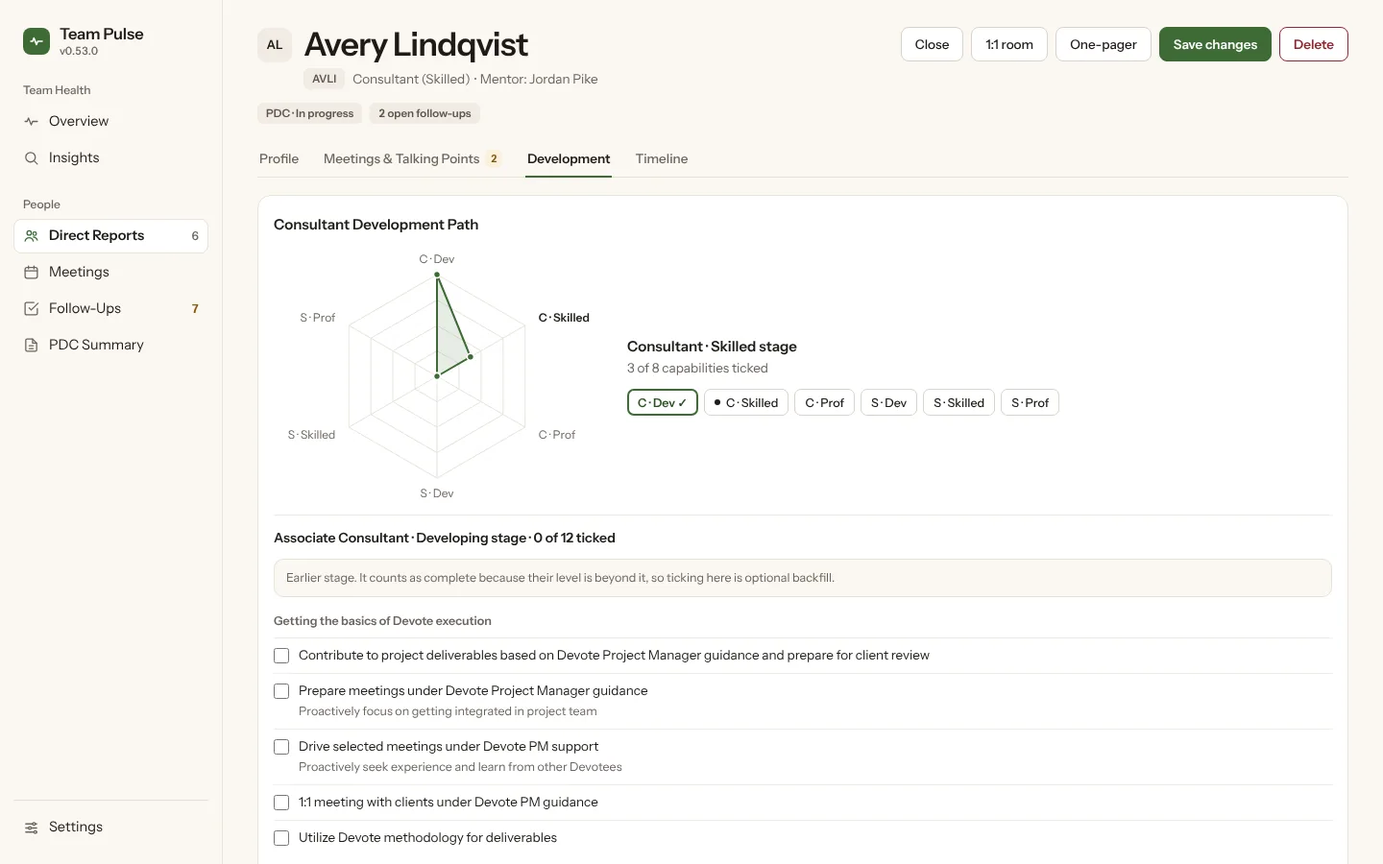
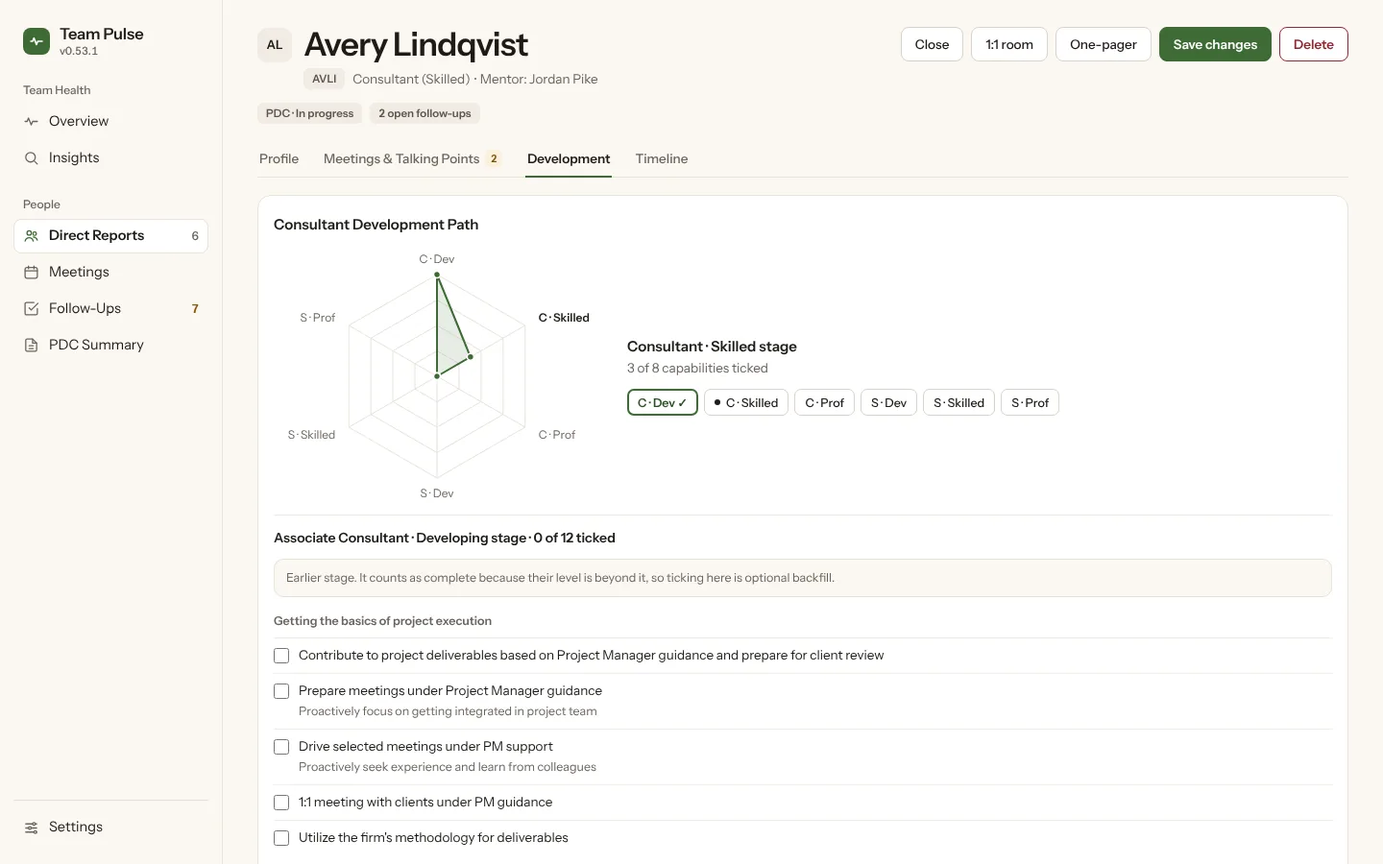
Replace company wording with neutral terms (v0.53.1)
The Development Path checklist and two code comments named a real firm
and quoted its template wording. They now use neutral terms such as
Project Manager, the firm and the PDP template. Capability ids and the
data format are unchanged. The two Development screenshots in
docs/screenshots are retaken with the neutral wording.

Claude-Session: https://claude.ai/code/session_01DkoqTuM9GprCWMebqCXo8f

diff --git a/index.html b/index.html
@@ -7564,7 +7564,7 @@
   <div id="printSheet" aria-hidden="true"></div>
 
   <script>
-const APP_VERSION = 'v0.53.0';
+const APP_VERSION = 'v0.53.1';
 const CURRENT_SCHEMA_VERSION = 12;
 const AUTOSAVE_DEBOUNCE_MS = 160;
 const TOAST_TIMEOUT_MS = 2000;
@@ -16548,7 +16548,7 @@ function migrateV10ToV11(docV10) {
 function migrateV11ToV12(docV11) {
   const safeDoc = docV11 && typeof docV11 === 'object' ? deepCopy(docV11) : makeEmptyDoc();
   // v12 introduces people[].capabilities — Consultant Development Path ticks
-  // mirrored from the Devote PDP template ({ id, achievedAt }). The migration
+  // mirrored from the PDP template ({ id, achievedAt }). The migration
   // only guarantees the array exists on base records and person_created
   // snapshots. No data is transformed, so this is additive and lossless.
   (Array.isArray(safeDoc.people) ? safeDoc.people : []).forEach((person) => {
@@ -16663,7 +16663,7 @@ function generateSchemaMarkdown() {
   lines.push('- **people[].initials** — Company-style initials (e.g. MAMO), letters and digits, uppercased, max 8 characters. Shown as a tag on tiles, the table, and the profile header, and included in search. The v10->v11 migration extracts a trailing parenthesized token from each person\'s name ("Maria Moreira (MAMO)" becomes name "Maria Moreira" + initials "MAMO") and strips the suffix from names inside historical events so replays cannot resurrect it. People who already have initials or whose names do not match the pattern are untouched.');
   lines.push('');
   lines.push('## Added in schema v12');
-  lines.push('- **people[].capabilities[]** — Consultant Development Path ticks: { id, achievedAt (YYYY-MM-DD, editable in the checklist so achievements can be backdated) }. Each id refers to a capability in the app\'s built-in CDP framework, seeded verbatim from the Devote Personal Development Plan template (six stages, 40 capabilities). Ticks are the line manager\'s calibration view; the PDP document remains the consultant\'s own copy. Stages earlier than a person\'s current level count as complete implicitly, so ticks usually only exist for the current stage onward. Powers the Development Path section of the Development tab, the Insights team heatmap and web chart, and Capability entries on the timeline.');
+  lines.push('- **people[].capabilities[]** — Consultant Development Path ticks: { id, achievedAt (YYYY-MM-DD, editable in the checklist so achievements can be backdated) }. Each id refers to a capability in the app\'s built-in CDP framework, seeded verbatim from the Personal Development Plan template (six stages, 40 capabilities). Ticks are the line manager\'s calibration view; the PDP document remains the consultant\'s own copy. Stages earlier than a person\'s current level count as complete implicitly, so ticks usually only exist for the current stage onward. Powers the Development Path section of the Development tab, the Insights team heatmap and web chart, and Capability entries on the timeline.');
   lines.push('');
   lines.push('## Migration path');
   lines.push('- **v0 -> v11** — Legacy flat files migrate through the durable event model; weeklySnapshots that might appear during the legacy walk are stripped by the v6->v7 step.');
@@ -17640,7 +17640,7 @@ function renderHealthTrendCard(reports) {
 
 /* =====================================================================
    v0.47.0 — Consultant Development Path. The framework below is seeded
-   verbatim from the Devote Personal Development Plan template (six
+   verbatim from the Personal Development Plan template (six
    stages, 40 capabilities, coaching hints from the Notes column). Ticks
    live on people[].capabilities as { id, achievedAt } and are the line
    manager's calibration view; the PDP document remains the consultant's
@@ -17660,30 +17660,30 @@ const CDP_FRAMEWORK = Object.freeze([
     short: 'C · Dev',
     groups: [
       {
-        title: 'Getting the basics of Devote execution',
+        title: 'Getting the basics of project execution',
         items: [
-          { id: 'cd-b1', text: 'Contribute to project deliverables based on Devote Project Manager guidance and prepare for client review' },
-          { id: 'cd-b2', text: 'Prepare meetings under Devote Project Manager guidance', hint: 'Proactively focus on getting integrated in project team' },
-          { id: 'cd-b3', text: 'Drive selected meetings under Devote PM support', hint: 'Proactively seek experience and learn from other Devotees' },
-          { id: 'cd-b4', text: '1:1 meeting with clients under Devote PM guidance' },
-          { id: 'cd-b5', text: 'Utilize Devote methodology for deliverables' }
+          { id: 'cd-b1', text: 'Contribute to project deliverables based on Project Manager guidance and prepare for client review' },
+          { id: 'cd-b2', text: 'Prepare meetings under Project Manager guidance', hint: 'Proactively focus on getting integrated in project team' },
+          { id: 'cd-b3', text: 'Drive selected meetings under PM support', hint: 'Proactively seek experience and learn from colleagues' },
+          { id: 'cd-b4', text: '1:1 meeting with clients under PM guidance' },
+          { id: 'cd-b5', text: 'Utilize the firm\'s methodology for deliverables' }
         ]
       },
       {
         title: 'Getting things done',
         items: [
-          { id: 'cd-g1', text: 'Contribute to project deliverables under Devote Project Manager support and drive review with clients', hint: 'Proactively seek to expand relationships within project team and be known as a person of choice and for business analysis skills' },
-          { id: 'cd-g2', text: '1:1 meeting with clients without Devote Project Manager' },
-          { id: 'cd-g3', text: 'Contribute to the plan for timely delivery of selected tasks under Devote Project Manager guidance' }
+          { id: 'cd-g1', text: 'Contribute to project deliverables under Project Manager support and drive review with clients', hint: 'Proactively seek to expand relationships within project team and be known as a person of choice and for business analysis skills' },
+          { id: 'cd-g2', text: '1:1 meeting with clients without Project Manager' },
+          { id: 'cd-g3', text: 'Contribute to the plan for timely delivery of selected tasks under Project Manager guidance' }
         ]
       },
       {
         title: 'Getting things done and plan for next steps',
         items: [
-          { id: 'cd-n1', text: 'Drive project deliverables on their own', hint: 'Proactively suggest to your Devote PM which deliverables you can drive' },
+          { id: 'cd-n1', text: 'Drive project deliverables on their own', hint: 'Proactively suggest to your PM which deliverables you can drive' },
           { id: 'cd-n2', text: 'Plan for timely delivery of selected tasks', hint: 'Proactively think how you can do better with each deliverable' },
           { id: 'cd-n3', text: 'Support PM in the planning of deliverables', hint: 'Identify a specialty for which you would like to be known for' },
-          { id: 'cd-n4', text: 'Raise risks for project deliverables to Devote Project Manager' }
+          { id: 'cd-n4', text: 'Raise risks for project deliverables to Project Manager' }
         ]
       }
     ]
@@ -17696,18 +17696,18 @@ const CDP_FRAMEWORK = Object.freeze([
       {
         title: 'Execute "right way forward" by following a plan',
         items: [
-          { id: 'cs-e1', text: 'Actively completing deliverables from E2E', hint: 'Proactively seek guidance from Devote experts' },
-          { id: 'cs-e2', text: 'Delegate assignments to other consultants', hint: 'Proactively teach other Devote consultants the Devote methods' },
+          { id: 'cs-e1', text: 'Actively completing deliverables from E2E', hint: 'Proactively seek guidance from senior experts' },
+          { id: 'cs-e2', text: 'Delegate assignments to other consultants', hint: 'Proactively teach other consultants the firm\'s methods' },
           { id: 'cs-e3', text: 'Support Project Team in defining/mitigating project risks' },
-          { id: 'cs-e4', text: 'Support Devote Project Manager in leading projects and/or tracks while applying Devote methodology for deliverables' }
+          { id: 'cs-e4', text: 'Support Project Manager in leading projects and/or tracks while applying the firm\'s methodology for deliverables' }
         ]
       },
       {
         title: 'Questioning & outlining the "right way forward"',
         items: [
-          { id: 'cs-q1', text: 'Outline deliverables and project/activity plans', hint: 'Identify a specialty to be known for outside of Devote' },
+          { id: 'cs-q1', text: 'Outline deliverables and project/activity plans', hint: 'Identify a specialty to be known for outside the firm' },
           { id: 'cs-q2', text: 'Apply "Root Cause Analysis" thinking to each deliverable (are we solving the right problem?)' },
-          { id: 'cs-q3', text: 'Lead projects and analytical tracks under limited guidance from Devote Project Manager' },
+          { id: 'cs-q3', text: 'Lead projects and analytical tracks under limited guidance from Project Manager' },
           { id: 'cs-q4', text: 'Delegate assignments to other consultants while taking accountability for quality and timelines' }
         ]
       }
@@ -17721,22 +17721,22 @@ const CDP_FRAMEWORK = Object.freeze([
       {
         title: 'Driving the "right way forward"',
         items: [
-          { id: 'cp-d1', text: 'Lead projects and/or analytical tracks on their own incl. accountability of individual risks and addressing the risks on a project level, deliverables and possibly project management on client level while applying Devote methodology', hint: 'Proactively seek guidance from Devote experts' },
-          { id: 'cp-d2', text: 'Understands and pick up on conversations that relate to needs for the client beyond the project scope or boundaries (e.g. potential engagement leads to Devote) and understand how to deliver this information to the Devote Account Lead', hint: 'Proactively seek leads and gaps for which Devote could support client' },
-          { id: 'cp-d3', text: 'Ability to coach the way of consultancy excellence to new Devote Consultants incl. onboarding to new projects, being the Devote quality governance on deliverables and ability to delegate and oversee other consultants working full-time within their project' }
+          { id: 'cp-d1', text: 'Lead projects and/or analytical tracks on their own incl. accountability of individual risks and addressing the risks on a project level, deliverables and possibly project management on client level while applying the firm\'s methodology', hint: 'Proactively seek guidance from senior experts' },
+          { id: 'cp-d2', text: 'Understands and pick up on conversations that relate to needs for the client beyond the project scope or boundaries (e.g. potential engagement leads for the firm) and understand how to deliver this information to the Account Lead', hint: 'Proactively seek leads and gaps for which the firm could support client' },
+          { id: 'cp-d3', text: 'Ability to coach the way of consultancy excellence to new consultants incl. onboarding to new projects, being the quality governance on deliverables and ability to delegate and oversee other consultants working full-time within their project' }
         ]
       },
       {
         title: 'Creating client value beyond delivery',
         items: [
-          { id: 'cp-v1', text: "Understands and can articulate Devote Consulting's broader value contribution to clients beyond individual project delivery within their domain" },
+          { id: 'cp-v1', text: "Understands and can articulate the firm's broader value contribution to clients beyond individual project delivery within their domain" },
           { id: 'cp-v2', text: 'Can frame their professional knowledge and insights in a way that helps clients see broader implications, opportunities, or perspectives relevant to their situation' }
         ]
       },
       {
         title: 'Client-recognised seniority & independence',
         items: [
-          { id: 'cp-s1', text: 'Have the profile and competencies (Devote CV) that justifies the hourly rate for Senior Consultant in the eyes of our clients' },
+          { id: 'cp-s1', text: 'Have the profile and competencies (CV) that justifies the hourly rate for Senior Consultant in the eyes of our clients' },
           { id: 'cp-s2', text: 'Can change to another client without significant reduction in independence and ability to drive projects' },
           { id: 'cp-s3', text: 'Can handle allocation on different projects on different clients in parallel' }
         ]
@@ -18049,7 +18049,7 @@ function renderDevelopmentPathPanel(editorReport) {
       <div class="drawer-section-head">
         <div>
           <h3>Consultant Development Path</h3>
-          <p class="section-note">Mirrors the capability grid from the Devote PDP template. These ticks are your manager view and save instantly. The consultant's own PDP document stays theirs, and a gap between the two is PDC conversation material.</p>
+          <p class="section-note">Mirrors the capability grid from the PDP template. These ticks are your manager view and save instantly. The consultant's own PDP document stays theirs, and a gap between the two is PDC conversation material.</p>
         </div>
       </div>
       <div class="cdp-layout">

diff --git a/src/scripts/35-development-path-framework.js b/src/scripts/35-development-path-framework.js
@@ -1,7 +1,7 @@
 
 /* =====================================================================
    v0.47.0 — Consultant Development Path. The framework below is seeded
-   verbatim from the Devote Personal Development Plan template (six
+   verbatim from the Personal Development Plan template (six
    stages, 40 capabilities, coaching hints from the Notes column). Ticks
    live on people[].capabilities as { id, achievedAt } and are the line
    manager's calibration view; the PDP document remains the consultant's
@@ -21,30 +21,30 @@ const CDP_FRAMEWORK = Object.freeze([
     short: 'C · Dev',
     groups: [
       {
-        title: 'Getting the basics of Devote execution',
+        title: 'Getting the basics of project execution',
         items: [
-          { id: 'cd-b1', text: 'Contribute to project deliverables based on Devote Project Manager guidance and prepare for client review' },
-          { id: 'cd-b2', text: 'Prepare meetings under Devote Project Manager guidance', hint: 'Proactively focus on getting integrated in project team' },
-          { id: 'cd-b3', text: 'Drive selected meetings under Devote PM support', hint: 'Proactively seek experience and learn from other Devotees' },
-          { id: 'cd-b4', text: '1:1 meeting with clients under Devote PM guidance' },
-          { id: 'cd-b5', text: 'Utilize Devote methodology for deliverables' }
+          { id: 'cd-b1', text: 'Contribute to project deliverables based on Project Manager guidance and prepare for client review' },
+          { id: 'cd-b2', text: 'Prepare meetings under Project Manager guidance', hint: 'Proactively focus on getting integrated in project team' },
+          { id: 'cd-b3', text: 'Drive selected meetings under PM support', hint: 'Proactively seek experience and learn from colleagues' },
+          { id: 'cd-b4', text: '1:1 meeting with clients under PM guidance' },
+          { id: 'cd-b5', text: 'Utilize the firm\'s methodology for deliverables' }
         ]
       },
       {
         title: 'Getting things done',
         items: [
-          { id: 'cd-g1', text: 'Contribute to project deliverables under Devote Project Manager support and drive review with clients', hint: 'Proactively seek to expand relationships within project team and be known as a person of choice and for business analysis skills' },
-          { id: 'cd-g2', text: '1:1 meeting with clients without Devote Project Manager' },
-          { id: 'cd-g3', text: 'Contribute to the plan for timely delivery of selected tasks under Devote Project Manager guidance' }
+          { id: 'cd-g1', text: 'Contribute to project deliverables under Project Manager support and drive review with clients', hint: 'Proactively seek to expand relationships within project team and be known as a person of choice and for business analysis skills' },
+          { id: 'cd-g2', text: '1:1 meeting with clients without Project Manager' },
+          { id: 'cd-g3', text: 'Contribute to the plan for timely delivery of selected tasks under Project Manager guidance' }
         ]
       },
       {
         title: 'Getting things done and plan for next steps',
         items: [
-          { id: 'cd-n1', text: 'Drive project deliverables on their own', hint: 'Proactively suggest to your Devote PM which deliverables you can drive' },
+          { id: 'cd-n1', text: 'Drive project deliverables on their own', hint: 'Proactively suggest to your PM which deliverables you can drive' },
           { id: 'cd-n2', text: 'Plan for timely delivery of selected tasks', hint: 'Proactively think how you can do better with each deliverable' },
           { id: 'cd-n3', text: 'Support PM in the planning of deliverables', hint: 'Identify a specialty for which you would like to be known for' },
-          { id: 'cd-n4', text: 'Raise risks for project deliverables to Devote Project Manager' }
+          { id: 'cd-n4', text: 'Raise risks for project deliverables to Project Manager' }
         ]
       }
     ]
@@ -57,18 +57,18 @@ const CDP_FRAMEWORK = Object.freeze([
       {
         title: 'Execute "right way forward" by following a plan',
         items: [
-          { id: 'cs-e1', text: 'Actively completing deliverables from E2E', hint: 'Proactively seek guidance from Devote experts' },
-          { id: 'cs-e2', text: 'Delegate assignments to other consultants', hint: 'Proactively teach other Devote consultants the Devote methods' },
+          { id: 'cs-e1', text: 'Actively completing deliverables from E2E', hint: 'Proactively seek guidance from senior experts' },
+          { id: 'cs-e2', text: 'Delegate assignments to other consultants', hint: 'Proactively teach other consultants the firm\'s methods' },
           { id: 'cs-e3', text: 'Support Project Team in defining/mitigating project risks' },
-          { id: 'cs-e4', text: 'Support Devote Project Manager in leading projects and/or tracks while applying Devote methodology for deliverables' }
+          { id: 'cs-e4', text: 'Support Project Manager in leading projects and/or tracks while applying the firm\'s methodology for deliverables' }
         ]
       },
       {
         title: 'Questioning & outlining the "right way forward"',
         items: [
-          { id: 'cs-q1', text: 'Outline deliverables and project/activity plans', hint: 'Identify a specialty to be known for outside of Devote' },
+          { id: 'cs-q1', text: 'Outline deliverables and project/activity plans', hint: 'Identify a specialty to be known for outside the firm' },
           { id: 'cs-q2', text: 'Apply "Root Cause Analysis" thinking to each deliverable (are we solving the right problem?)' },
-          { id: 'cs-q3', text: 'Lead projects and analytical tracks under limited guidance from Devote Project Manager' },
+          { id: 'cs-q3', text: 'Lead projects and analytical tracks under limited guidance from Project Manager' },
           { id: 'cs-q4', text: 'Delegate assignments to other consultants while taking accountability for quality and timelines' }
         ]
       }
@@ -82,22 +82,22 @@ const CDP_FRAMEWORK = Object.freeze([
       {
         title: 'Driving the "right way forward"',
         items: [
-          { id: 'cp-d1', text: 'Lead projects and/or analytical tracks on their own incl. accountability of individual risks and addressing the risks on a project level, deliverables and possibly project management on client level while applying Devote methodology', hint: 'Proactively seek guidance from Devote experts' },
-          { id: 'cp-d2', text: 'Understands and pick up on conversations that relate to needs for the client beyond the project scope or boundaries (e.g. potential engagement leads to Devote) and understand how to deliver this information to the Devote Account Lead', hint: 'Proactively seek leads and gaps for which Devote could support client' },
-          { id: 'cp-d3', text: 'Ability to coach the way of consultancy excellence to new Devote Consultants incl. onboarding to new projects, being the Devote quality governance on deliverables and ability to delegate and oversee other consultants working full-time within their project' }
+          { id: 'cp-d1', text: 'Lead projects and/or analytical tracks on their own incl. accountability of individual risks and addressing the risks on a project level, deliverables and possibly project management on client level while applying the firm\'s methodology', hint: 'Proactively seek guidance from senior experts' },
+          { id: 'cp-d2', text: 'Understands and pick up on conversations that relate to needs for the client beyond the project scope or boundaries (e.g. potential engagement leads for the firm) and understand how to deliver this information to the Account Lead', hint: 'Proactively seek leads and gaps for which the firm could support client' },
+          { id: 'cp-d3', text: 'Ability to coach the way of consultancy excellence to new consultants incl. onboarding to new projects, being the quality governance on deliverables and ability to delegate and oversee other consultants working full-time within their project' }
         ]
       },
       {
         title: 'Creating client value beyond delivery',
         items: [
-          { id: 'cp-v1', text: "Understands and can articulate Devote Consulting's broader value contribution to clients beyond individual project delivery within their domain" },
+          { id: 'cp-v1', text: "Understands and can articulate the firm's broader value contribution to clients beyond individual project delivery within their domain" },
           { id: 'cp-v2', text: 'Can frame their professional knowledge and insights in a way that helps clients see broader implications, opportunities, or perspectives relevant to their situation' }
         ]
       },
       {
         title: 'Client-recognised seniority & independence',
         items: [
-          { id: 'cp-s1', text: 'Have the profile and competencies (Devote CV) that justifies the hourly rate for Senior Consultant in the eyes of our clients' },
+          { id: 'cp-s1', text: 'Have the profile and competencies (CV) that justifies the hourly rate for Senior Consultant in the eyes of our clients' },
           { id: 'cp-s2', text: 'Can change to another client without significant reduction in independence and ability to drive projects' },
           { id: 'cp-s3', text: 'Can handle allocation on different projects on different clients in parallel' }
         ]

diff --git a/src/scripts/31-migration-v12-and-portable-json.js b/src/scripts/31-migration-v12-and-portable-json.js
@@ -1,7 +1,7 @@
 function migrateV11ToV12(docV11) {
   const safeDoc = docV11 && typeof docV11 === 'object' ? deepCopy(docV11) : makeEmptyDoc();
   // v12 introduces people[].capabilities — Consultant Development Path ticks
-  // mirrored from the Devote PDP template ({ id, achievedAt }). The migration
+  // mirrored from the PDP template ({ id, achievedAt }). The migration
   // only guarantees the array exists on base records and person_created
   // snapshots. No data is transformed, so this is additive and lossless.
   (Array.isArray(safeDoc.people) ? safeDoc.people : []).forEach((person) => {
@@ -116,7 +116,7 @@ function generateSchemaMarkdown() {
   lines.push('- **people[].initials** — Company-style initials (e.g. MAMO), letters and digits, uppercased, max 8 characters. Shown as a tag on tiles, the table, and the profile header, and included in search. The v10->v11 migration extracts a trailing parenthesized token from each person\'s name ("Maria Moreira (MAMO)" becomes name "Maria Moreira" + initials "MAMO") and strips the suffix from names inside historical events so replays cannot resurrect it. People who already have initials or whose names do not match the pattern are untouched.');
   lines.push('');
   lines.push('## Added in schema v12');
-  lines.push('- **people[].capabilities[]** — Consultant Development Path ticks: { id, achievedAt (YYYY-MM-DD, editable in the checklist so achievements can be backdated) }. Each id refers to a capability in the app\'s built-in CDP framework, seeded verbatim from the Devote Personal Development Plan template (six stages, 40 capabilities). Ticks are the line manager\'s calibration view; the PDP document remains the consultant\'s own copy. Stages earlier than a person\'s current level count as complete implicitly, so ticks usually only exist for the current stage onward. Powers the Development Path section of the Development tab, the Insights team heatmap and web chart, and Capability entries on the timeline.');
+  lines.push('- **people[].capabilities[]** — Consultant Development Path ticks: { id, achievedAt (YYYY-MM-DD, editable in the checklist so achievements can be backdated) }. Each id refers to a capability in the app\'s built-in CDP framework, seeded verbatim from the Personal Development Plan template (six stages, 40 capabilities). Ticks are the line manager\'s calibration view; the PDP document remains the consultant\'s own copy. Stages earlier than a person\'s current level count as complete implicitly, so ticks usually only exist for the current stage onward. Powers the Development Path section of the Development tab, the Insights team heatmap and web chart, and Capability entries on the timeline.');
   lines.push('');
   lines.push('## Migration path');
   lines.push('- **v0 -> v11** — Legacy flat files migrate through the durable event model; weeklySnapshots that might appear during the legacy walk are stripped by the v6->v7 step.');

diff --git a/src/scripts/36-development-path-radar-and-checklist.js b/src/scripts/36-development-path-radar-and-checklist.js
@@ -255,7 +255,7 @@ function renderDevelopmentPathPanel(editorReport) {
       <div class="drawer-section-head">
         <div>
           <h3>Consultant Development Path</h3>
-          <p class="section-note">Mirrors the capability grid from the Devote PDP template. These ticks are your manager view and save instantly. The consultant's own PDP document stays theirs, and a gap between the two is PDC conversation material.</p>
+          <p class="section-note">Mirrors the capability grid from the PDP template. These ticks are your manager view and save instantly. The consultant's own PDP document stays theirs, and a gap between the two is PDC conversation material.</p>
         </div>
       </div>
       <div class="cdp-layout">

diff --git a/src/scripts/01-constants-state-and-base-helpers.js b/src/scripts/01-constants-state-and-base-helpers.js
@@ -1,4 +1,4 @@
-const APP_VERSION = 'v0.53.0';
+const APP_VERSION = 'v0.53.1';
 const CURRENT_SCHEMA_VERSION = 12;
 const AUTOSAVE_DEBOUNCE_MS = 160;
 const TOAST_TIMEOUT_MS = 2000;
